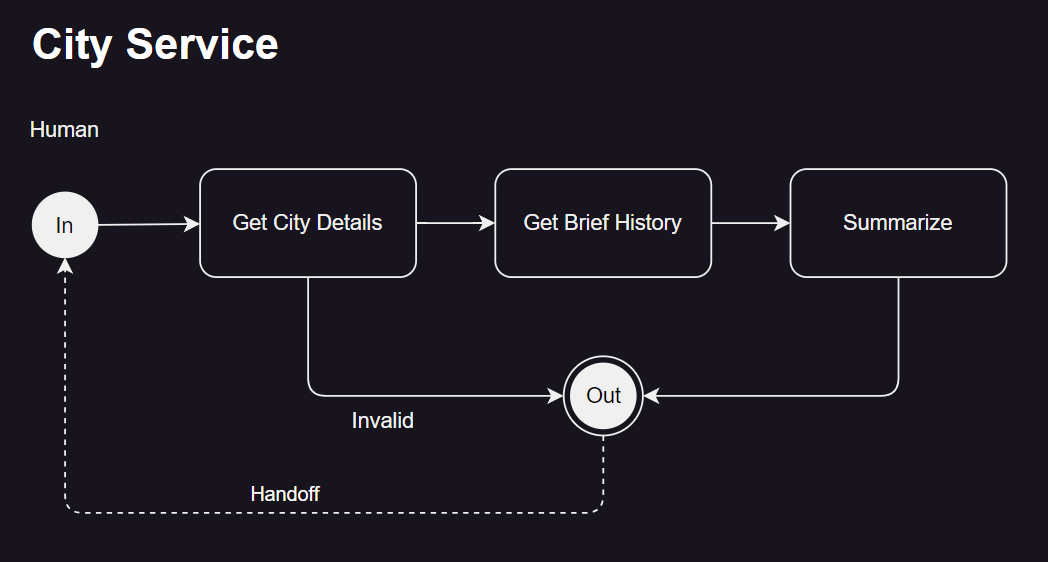
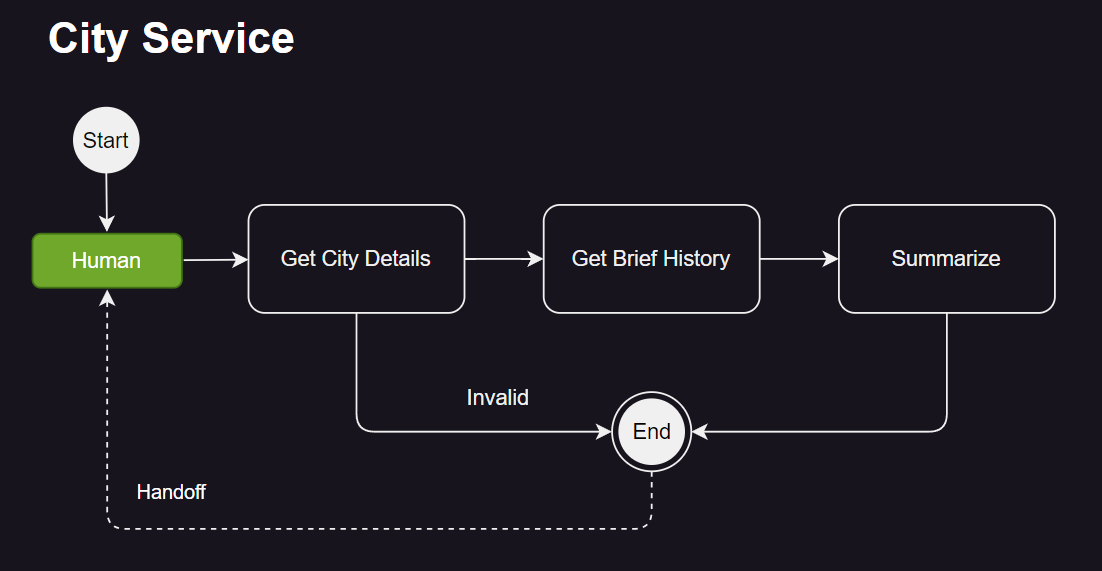
Adding diagrams and modifying the readme

diff --git a/readme.md b/readme.md
@@ -1,18 +1,18 @@
-# Agentic Design Patterns
+# AI Agentic Design Patterns
 
 This repository showcases a collection of simple AI agents designed to demonstrate various design patterns in AI-driven workflows. Each pattern is implemented with practical examples and detailed explanations to help developers and researchers understand and apply these concepts effectively in their projects.
 
-To keep things lightweight and reduce complexity, the examples will minimize framework dependencies. We've chosen [Pydantic AI](https://ai.pydantic.dev/) for agentic development because it is both lightweight and provides the essential building blocks for building production-quality AI agents.
+To keep things simple and reduce unnecessary complexity, the examples will minimize framework dependencies. We've chosen [Pydantic AI](https://ai.pydantic.dev/) for our agentic development as it is both lightweight and provides the essential building blocks for building production-quality AI Agents.
 
-Additionally, all use cases (except one) leverage [Pydantic Graphs](https://ai.pydantic.dev/api/pydantic_graph/graph/) to structure agent workflows. Using graph-based workflows from the outset is a good design practice for several reasons:
+All use cases (except for one) leverages [Pydantic Graphs](https://ai.pydantic.dev/api/pydantic_graph/graph/) to manage agent workflows. Using graph-based workflows from the outset is a good best practice for several reasons:
 
-- Most agentic workflows involve multiple agents. A graph-based approach provides a consistent foundational pattern, making it easier to understand and maintain across development teams.  
-- Introducing workflows early in the SDLC makes it significantly easier when extensibility is a priority.
+- Most agentic workflows involve multiple agents. A graph-based workflow approach provides a consistent foundational pattern, making it easier to understand and maintain across the development team.  
+- Introducing workflows early in the SDLC makes it significantly easier when extensibility and refactoring are required.
 
 ### Considerations
 
 #### Use-Cases  
-The example scenarios in this repository are intentionally simple—arguably contrived and even useless. That’s the point. The goal is to eliminate unnecessary distractions and focus purely on **Agent Design Patterns**.
+The example scenarios in this repository are intentionally contrived for simplicity. The goal is to eliminate unnecessary distractions from complicated use-cases and focus purely on the topics at hand - **AI Agentic Design Patterns**.
 
 #### Disclaimer  
 I come from a C# background, so my Python skills may not be perfect. Suggestions for improvements are always welcome!
@@ -28,17 +28,17 @@ This section highlights various design patterns commonly used in AI agent develo
 - Demonstrates how a single agent can integrate with third-party tools like Asana to automate project and task management.
 - Features:
   - Tool calling 
-  - console (with streaming)
-  - streamlit (with streaming)
+  - console app (with streaming)
+  - streamlit app (with streaming)
   - chat history
-- **Note**: For sake of demonstration, the Asana API is a mock and uses _sqlite_ to maintain states i.e. Projects and Tasks
+- **Note**: For sake of demonstration, the Asana API is a mock and utilizes _sqlite_ to maintain states i.e. Projects and Tasks
 
 ### Prompt Chaining Workflow
-- Demonstrates how to use prompt chaining - taking part or in whole, the response of a previous model and using it as input to the next model. 
+- Demonstrates how to use prompt chaining - taking part or in whole, the response of a previous agent and using it as input to the next agent in the chain.
 - Use-case: 
-  - Obtain a validate city from the user. If a valid city was not used, the end and with no results.
-  - Once a validate city was obtain, get details about the city i.e. Regional information and a summarized history about the city. 
-  - **Note**: Obviously, this use-case can be achieved using a single agent with a one-shot prompt. As stated before, the objective is to demonstrate the design pattern and keeping the use-case as simple as possible for demonstration purposes.
+  - Obtain a validate city from the user. If a valid city was not provided, the end and with no results.
+  - Once a validate city was provided, get details about the city i.e. Regional information and a summarized history about the city. 
+  - **Note**: Obviously, this use-case can be achieved using a single agent with a **one-shot** prompt. As stated before, the objective is to demonstrate the design pattern and keeping the use-case as simple as possible for demonstration purposes.
 - Features:
   - Multi-Agent
   - Graphs
